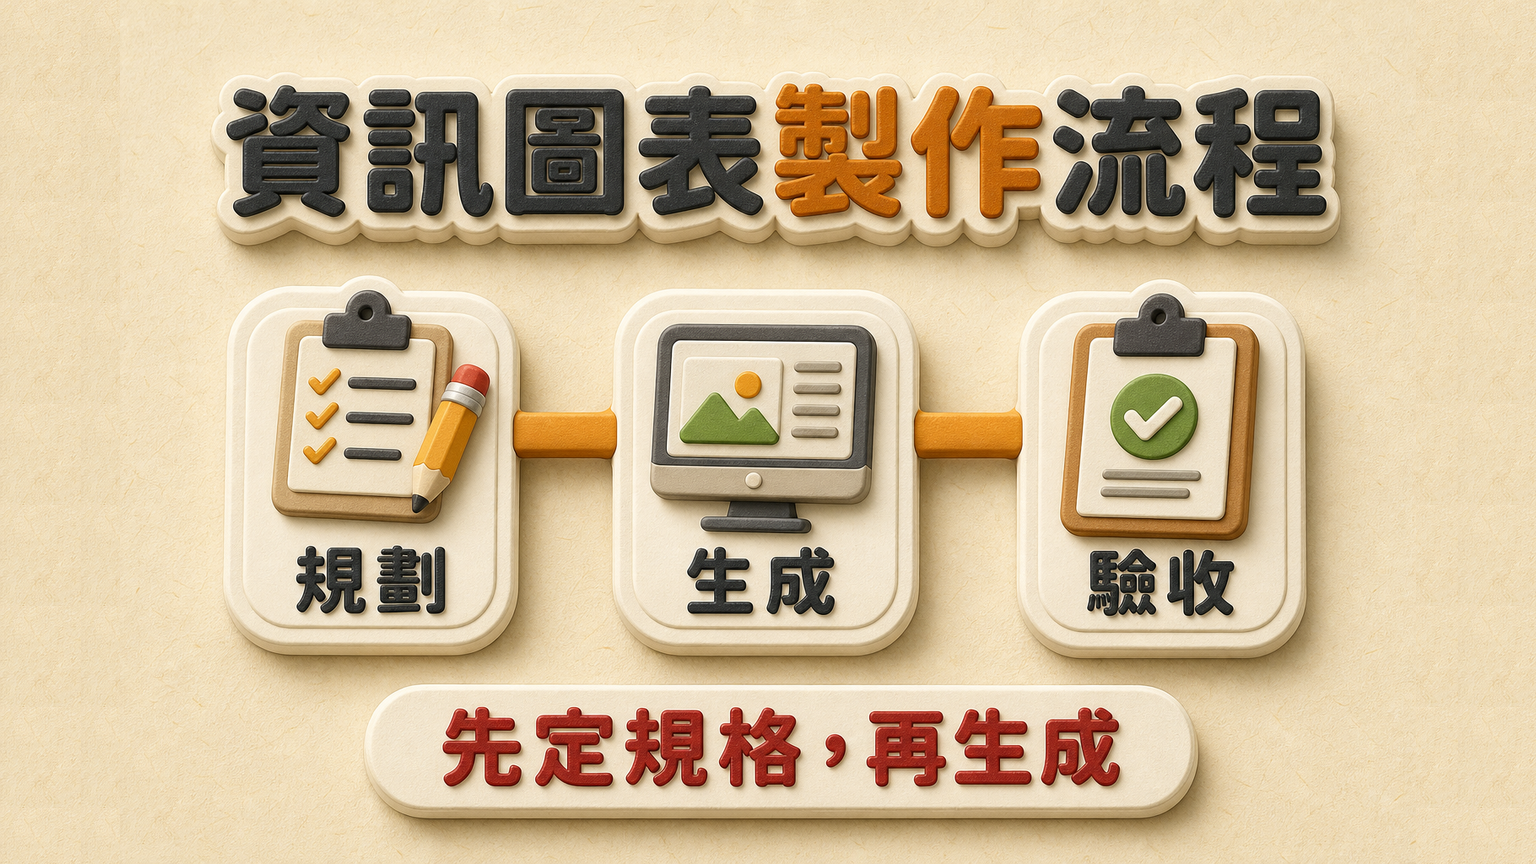
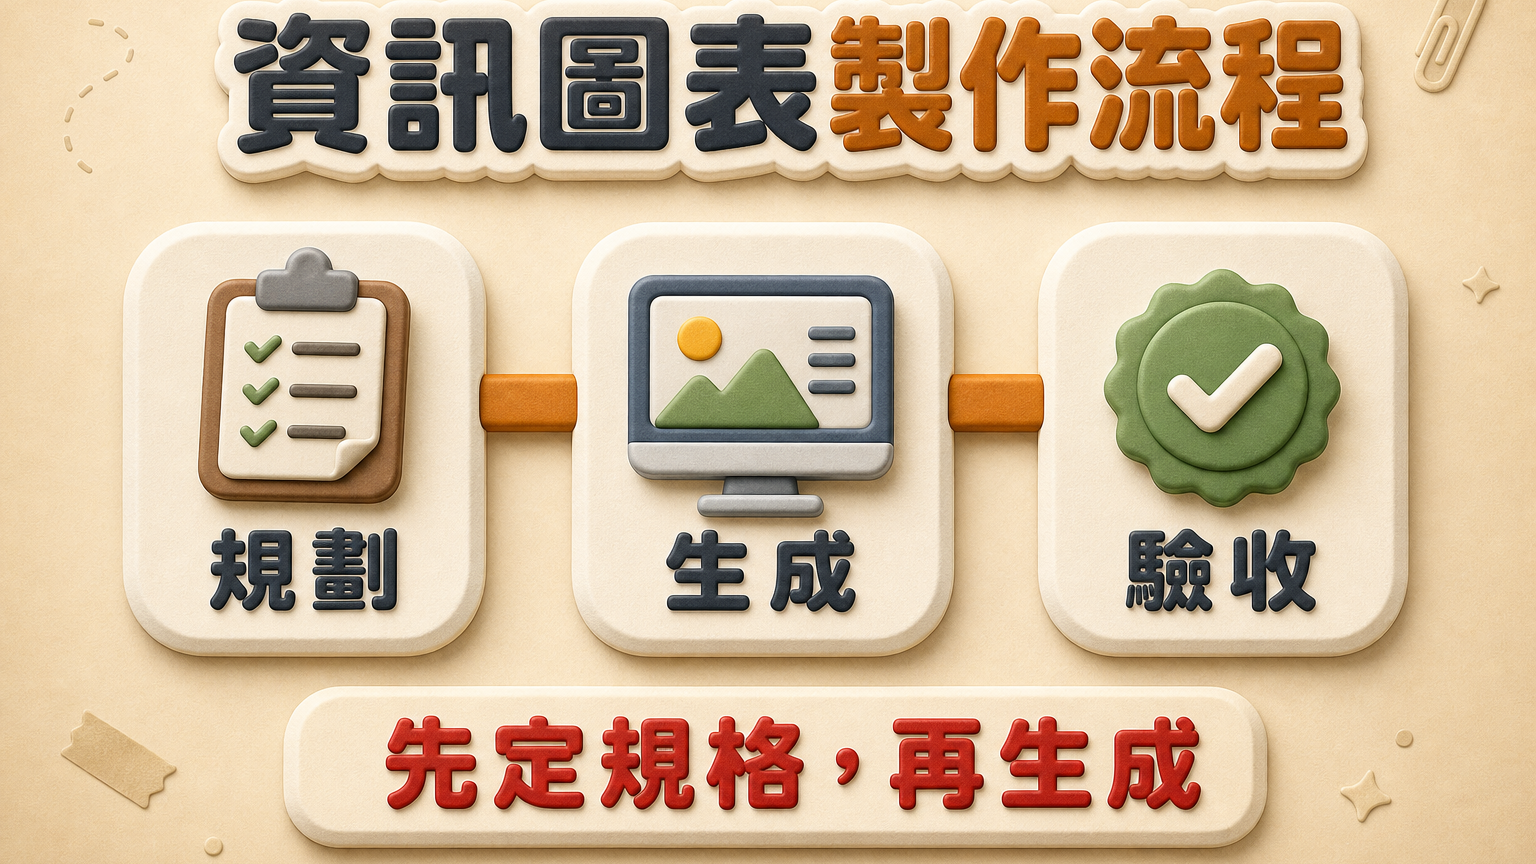
paper_warm 1.2.0：背景加入漸層與稀疏小物件，並接上 composition
compile_prompt.py 原本不讀 profile 的 composition 區塊——與先前 typography／
emphasis 同一類「設定看起來存在但沒接線」的問題。tech_calm 與 paper_warm 的
構圖規則從未進過任何提示詞。修好之後，背景規則才可能生效。

paper_warm 1.2.0 新增兩條構圖規則：暖色柔和漸層（上方中央較淺、四角與下緣
轉深），以及散落的低對比小物件（圓點、四角星閃、虛線軌跡、迴紋針、紙膠帶）
作為深度線索。negative_prompt 同步加上「背景點綴必須小、疏、低對比，不得
碰觸文字或與主卡片競爭」。

樣張重生（medium）。五處繁體中文仍為零錯字。

裁切策略改為對齊底部而非置中：墨色範圍 61..965（905 px）比 16:9 視窗高
41 px，無法零損失，因此把損失全部推到標題上方的裝飾餘裕，保住結論橫幅本體。
量測改用純亮度門檻——背景漸層讓原本的「非背景色」偵測整張誤判，而暖紙本身
就是高飽和暖色，飽和度條件同樣會把整片背景當成內容。

已知瑕疵：標題貼紙上緣幾乎貼齊畫布頂端，未達 spec 宣告的 6% 安全區。

diff --git a/skills/yaml-infographic/scripts/compile_prompt.py b/skills/yaml-infographic/scripts/compile_prompt.py
@@ -90,6 +90,7 @@ def main():
     negative = style.get("negative_prompt") or []
     typography = style.get("typography") or {}
     emphasis = style.get("emphasis") or {}
+    composition = style.get("composition") or {}
 
     # Image models read the compiled prompt, so a profile may supply `prompt_en`
     # for wording sent to the model and keep font_feel/avoid as human-facing notes.
@@ -102,6 +103,8 @@ def main():
     emphasis_line = " ".join(
         str(value) for value in (emphasis.get("keyword"), emphasis.get("priority")) if value
     ) or DEFAULT_EMPHASIS
+    character_line = ", ".join(str(item) for item in composition.get("character") or [])
+    composition_rules = [str(rule) for rule in composition.get("rules") or []]
 
     section_lines, exact_text = [], []
     for section in data["sections"]:
@@ -140,6 +143,8 @@ Palette: {palette}.
 Materials: {materials}.
 Typography: {typography_line}
 Emphasis: {emphasis_line}
+Composition character: {character_line}.
+Composition rules: {chr(10).join('- ' + rule for rule in composition_rules)}
 
 Output mode: {mode}.
 {mode_rule}

diff --git a/skills/yaml-infographic/SKILL.md b/skills/yaml-infographic/SKILL.md
@@ -9,7 +9,7 @@ Create one complete information graphic from a validated YAML contract. Keep the
 
 ## Defaults
 
-- Use `yaml_spec` planning and one of the bundled versioned profiles unless the user explicitly supplies another style. Pick by publishing surface: `global:paper_warm@1.1.0` for printed handouts and bright rooms, `global:tech_calm@1.0.0` for dark-room screens and social posts.
+- Use `yaml_spec` planning and one of the bundled versioned profiles unless the user explicitly supplies another style. Pick by publishing surface: `global:paper_warm@1.2.0` for printed handouts and bright rooms, `global:tech_calm@1.0.0` for dark-room screens and social posts.
 - Default to `plate` for Traditional Chinese, exact numbers, charts, dates, citations, formulas, maps, or content intended for later revision.
 - Use `baked` only for low-density visual storytelling with short copy and no precision-critical data.
 - Generate a single canvas, not a slide deck. Do not create a `slides` section.
@@ -26,7 +26,7 @@ Bundled profiles:
 
 | Reference | File | Look | Golden sample |
 |---|---|---|---|
-| `global:paper_warm@1.1.0` (default) | `paper-warm.yaml` | Thick die-cut stickers lifting off warm paper; ink-grey text, amber keywords, red for the single top emphasis | `paper-warm-sample.png` |
+| `global:paper_warm@1.2.0` (default) | `paper-warm.yaml` | Thick die-cut stickers lifting off a warm gradient ground scattered with sparse low-contrast accents; ink-grey text, amber keywords, red for the single top emphasis | `paper-warm-sample.png` |
 | `global:tech_calm@1.0.0` | `tech-calm.yaml` | Near-black surfaces, ice-white text, orange keywords, yellow for the single top emphasis | `channel-style-tech-calm.png` |
 
 Any profile declaring a matching `style.id`, `style.version`, and a complete `palette` is equally valid — nothing about a specific palette is hard-coded in the validator.

diff --git a/LICENSE-ASSETS.md b/LICENSE-ASSETS.md
@@ -9,6 +9,6 @@
 | `skills/yaml-infographic/assets/paper-warm-sample.png` | changyiwu，以 OpenAI gpt-image-2 生成 |
 | `skills/yaml-infographic/assets/paper-warm.yaml` | changyiwu |
 
-`paper-warm-sample.png` 由本 Repo 的工作流程自身產出：以 `paper-warm.yaml` 編譯提示詞後生成 1536x1024，再等比縮放至 1296x864 並以純空白紙面平鋪補足左右邊界，成為 1536x864 的 16:9。採縮放補邊而非裁切，是因為內容高度超過 16:9 視窗，裁切會削掉結論橫幅。
+`paper-warm-sample.png` 由本 Repo 的工作流程自身產出：以 `paper-warm.yaml` 編譯提示詞後生成 1536x1024，再以亮度門檻量出墨色範圍，取一個對齊底部的 16:9 視窗裁切為 1536x864。對齊底部而非置中，是因為墨色範圍比視窗高 41 px，必須有所取捨——犧牲標題上方的裝飾餘裕，保住結論橫幅本體。
 
 目前公開包未收錄第三方照片、商標或需要 API Key 才能使用的素材。若使用者自行加入第三方素材，仍須遵守該素材原本的授權條款。

diff --git a/README.md b/README.md
@@ -4,7 +4,7 @@
 
 ![紙感立體貼紙風格黃金樣板](skills/yaml-infographic/assets/paper-warm-sample.png)
 
-內建兩種風格 profile。上圖為預設的「紙感立體貼紙」（`paper_warm`）：厚實圓角貼紙浮起於暖紙底，適合列印講義與明亮教室；下圖為「科技沉穩」（`tech_calm`，隨原始著作附帶），適合暗室螢幕與社群貼文。
+內建兩種風格 profile。上圖為預設的「紙感立體貼紙」（`paper_warm`）：厚實圓角貼紙浮起於暖紙底，背景帶柔和漸層與稀疏的低對比小物件，適合列印講義與明亮教室；下圖為「科技沉穩」（`tech_calm`，隨原始著作附帶），適合暗室螢幕與社群貼文。
 
 ![科技沉穩風格黃金樣板](skills/yaml-infographic/assets/channel-style-tech-calm.png)
 
